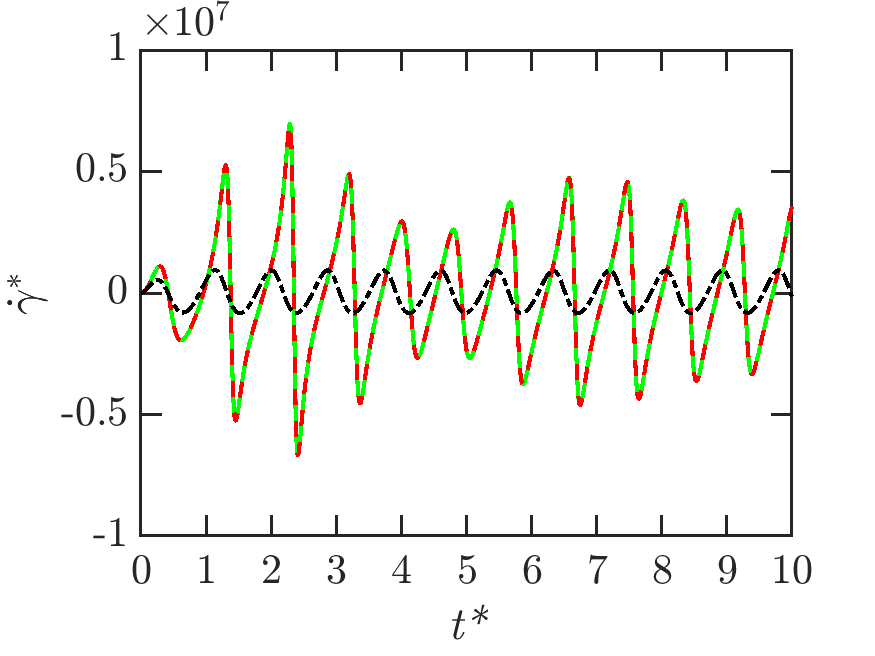
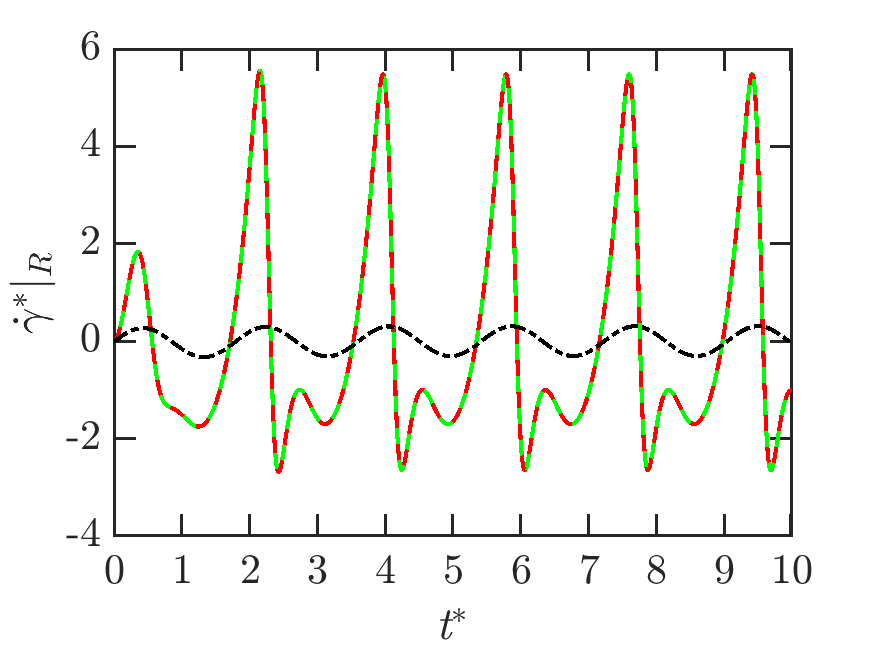
added improved plots, a few of the figures are ready for overleaf

diff --git a/figsetup.m b/figsetup.m
@@ -1,29 +1,28 @@
-tickrange= [0:tmag];
+tickrange= [0:1:tmag];
 % SETTING UP THE FIGURES
 figure(1)  
 hold on
-xlabel('\it{t*}', 'Interpreter', 'Latex', 'FontSize', 20); 
-ylabel('$\it{R^*}$-1', 'Interpreter', 'Latex', 'FontSize', 20); 
+xlabel('\it{t}$^*$', 'Interpreter', 'Latex', 'FontSize', 20); 
+ylabel('$\it{R}^*$', 'Interpreter', 'Latex', 'FontSize', 20); 
 %leg = legend('$\mu_{water}$','$\mu_{blood,\infty}$', '$\mu_{blood}$', '$\mu_{blood,0}$' ); 
 %set(leg,'Interpreter','latex','Location','northeast');
 %set(leg,'FontSize',18);
-box on;
 set(gcf,'color','w'); %Changes background to white 
 set(gca, 'FontName', 'Times', 'FontSize',20); 
 set(gca,'TickLabelInterpreter','latex')
 xa = gca;
-xticks(tickrange)
 xa.TickLength = [.03 .03];
 xa.LineWidth = 1.5;
+xticks(tickrange)
+box on;
 
 figure(2)
 hold on
-xlabel('\it{t*}', 'Interpreter', 'Latex', 'FontSize', 20); 
-ylabel('$\dot{\gamma}^*$', 'Interpreter', 'Latex', 'FontSize', 20); 
+xlabel('\it{t}$^*$', 'Interpreter', 'Latex', 'FontSize', 20); 
+ylabel('$\dot{\gamma}^*|_R$', 'Interpreter', 'Latex', 'FontSize', 20); 
 %leg = legend('$\mu_{water}$','$\mu_{blood,\infty}$', '$\mu_{blood}$', '$\mu_{blood,0}$' ); 
 %set(leg,'Interpreter','latex','Location','northeast');
 %set(leg,'FontSize',18);
-box on;
 set(gcf,'color','w'); %Changes background to white 
 set(gca, 'FontName', 'Times', 'FontSize',20); 
 set(gca,'TickLabelInterpreter','latex')
@@ -32,51 +31,52 @@ xa.TickLength = [.03 .03];
 xa.LineWidth = 1.5;
 xticks(tickrange)
 % ylim([-1.5 1.5]*1E-5)
+box on;
 
 figure(3)
 hold on
-xlabel('\it{t*}', 'Interpreter', 'Latex', 'FontSize', 20); 
-ylabel('$\mu$*', 'Interpreter', 'Latex', 'FontSize', 20); 
+xlabel('\it{t}$^*$', 'Interpreter', 'Latex', 'FontSize', 20); 
+ylabel('$\mu^*|_R$', 'Interpreter', 'Latex', 'FontSize', 20); 
 %leg = legend('$\mu_{water}$','$\mu_{blood,\infty}$', '$\mu_{blood}$', '$\mu_{blood,0}$' ); 
 %set(leg,'Interpreter','latex','Location','northeast');
 %set(leg,'FontSize',18);
-box on;
 ylim([0 1.1])
 set(gcf,'color','w'); %Changes background to white 
 set(gca, 'FontName', 'Times', 'FontSize',20); 
 set(gca,'TickLabelInterpreter','latex')
 xa = gca;
-xticks(tickrange)
 xa.TickLength = [.03 .03];
 xa.LineWidth = 1.5;
+xticks(tickrange)
+box on;
 
 figure(4)
 hold on
-xlabel('\it{t*}', 'Interpreter', 'Latex', 'FontSize', 20); 
-ylabel('$\tau_{rr}$ [Pa]', 'Interpreter', 'Latex', 'FontSize', 20); 
+xlabel('\it{t}$^*$', 'Interpreter', 'Latex', 'FontSize', 20); 
+ylabel('$\tau_{rr}^*|_R$', 'Interpreter', 'Latex', 'FontSize', 20); 
 %leg = legend('$\mu_{water}$','$\mu_{blood,\infty}$', '$\mu_{blood}$', '$\mu_{blood,0}$' ); 
 %set(leg,'Interpreter','latex','Location','northeast');
 %set(leg,'FontSize',18);
-box on;
 set(gcf,'color','w'); %Changes background to white 
 set(gca, 'FontName', 'Times', 'FontSize',20); 
 set(gca,'TickLabelInterpreter','latex')
-xticks(tickrange)
 xa = gca;
 xa.TickLength = [.03 .03];
 xa.LineWidth = 1.5;
+xticks(tickrange)
+box on;
 
 figure(5)
 hold on
-xlabel('$\dot{\gamma}$ [1/s]', 'Interpreter', 'Latex', 'FontSize', 20); 
-ylabel('$\tau_{rr}$ [Pa]', 'Interpreter', 'Latex', 'FontSize', 20); 
+xlabel('$\dot{\gamma}^*$', 'Interpreter', 'Latex', 'FontSize', 20); 
+ylabel('$\tau_{rr}^*|_R$', 'Interpreter', 'Latex', 'FontSize', 20); 
 %leg = legend('$\mu_{water}$','$\mu_{blood,\infty}$', '$\mu_{blood}$', '$\mu_{blood,0}$' ); 
 %set(leg,'Interpreter','latex','Location','northeast');
 %set(leg,'FontSize',18);
-box on;
 set(gcf,'color','w'); %Changes background to white 
 set(gca, 'FontName', 'Times', 'FontSize',20); 
 set(gca,'TickLabelInterpreter','latex')
 xa = gca;
 xa.TickLength = [.03 .03];
 xa.LineWidth = 1.5;
+box on;

diff --git a/ffield.m b/ffield.m
@@ -2,10 +2,10 @@ lR = length(Rout(:,1));
 lr = 500;
 R = Rout(:,1);
 Rdot = Rout(:,2);
-Rdist = Ro_w*ones(lR,lr).*linspace(0,8,lr);
+Rdist = Ro_w*ones(lR,lr).*linspace(0,rstarlim,lr);
 sr = sfunc(Rdist,R,Rdot,lR,lr);
 mugrid = carreau(vmaterial,sr);
-% taugrid = -2*mugrid.*sr;
+taugrid = -2*mugrid.*sr;
 tcon = Tout(1:lR)/tRC;
 rcon = Rdist(1,1:lr)'/Ro_w;
 [xcon,ycon] = meshgrid(tcon,rcon);
@@ -18,37 +18,63 @@ cbar = colorbar;
 cbar.Label.String = '$\mu$*';
 set(cbar,'TickLabelInterpreter','latex');
 pos = get(cbar,'Position');
-cbar.Label.Position = [pos(1)*2 pos(2)*(-0.3)]; 
+cbar.Label.Position = [pos(1)*2 -0.066045549576697]; 
 cbar.Label.Rotation = 0;
 cbar.Label.Interpreter = 'latex';
 caxis([0 1]);
-xlabel('\it{t*}', 'Interpreter', 'Latex', 'FontSize', 20); 
-ylabel('\it{r*}','Interpreter','Latex','FontSize',24);
+xlabel('\it{t}$^*$', 'Interpreter', 'Latex', 'FontSize', 20); 
+ylabel('\it{r}$^*$','Interpreter','Latex','FontSize',24);
 set(gcf,'color','w');
 set(gca,'FontName','Times','FontSize',20);
 set(gca,'TickLabelInterpreter','latex')
 xa = gca;
 xa.TickLength = [.03 .03];
 xa.LineWidth = 1.5;
+xticks([1:1:tmag])
 box on;
 
-% figure(7)
-% contourf(xcon',ycon',taugrid,clevels,'edgecolor','none')
-% colormap jet;
-% cbar = colorbar;
-% cbar.Label.String = '$\tau_{rr}$ [Pa]';
-% set(cbar,'TickLabelInterpreter','latex');
-% pos = get(cbar,'Position');
-% cbar.Label.Position = [pos(1)*2 pos(2)*(-3)]; 
-% cbar.Label.Rotation = 0;
-% cbar.Label.Interpreter = 'latex';
-% % caxis([0 1])
-% xlabel('\it{t*}', 'Interpreter', 'Latex', 'FontSize', 20); 
-% ylabel('\it{r*}','Interpreter','Latex','FontSize',24);
-% set(gcf,'color','w');
-% set(gca,'FontName','Times','FontSize',20);
-% set(gca,'TickLabelInterpreter','latex')
-% xa = gca;
-% xa.TickLength = [.03 .03];
-% xa.LineWidth = 1.5;
-% box on;
+figure(7)
+% plot(tspan,Roft, lm,'LineWidth',2); 
+contourf(xcon',ycon',sr,clevels,'edgecolor','none')
+colormap jet;
+cbar = colorbar;
+set(cbar,'TickLabelInterpreter','latex');
+cbar.Label.String = '$\dot{\gamma}~[1/s]$';
+pos = get(cbar,'Position');
+cbar.Label.Position = [1.661309480667114 -10.730386636465376]; 
+cbar.Label.Rotation = 0;
+cbar.Label.Interpreter = 'latex';
+caxis([-10 10]);
+xlabel('\it{t}$^*$', 'Interpreter', 'Latex', 'FontSize', 20); 
+ylabel('\it{r}$^*$','Interpreter','Latex','FontSize',24);
+set(gcf,'color','w');
+set(gca,'FontName','Times','FontSize',20);
+set(gca,'TickLabelInterpreter','latex')
+xa = gca;
+xa.TickLength = [.03 .03];
+xa.LineWidth = 1.5;
+xticks([1:1:tmag])
+box on;
+
+figure(8)
+% plot(tspan,Roft, lm,'LineWidth',2); 
+contourf(xcon',ycon',taugrid,clevels,'edgecolor','none')
+colormap jet;
+cbar = colorbar;
+cbar.Label.String = '$\tau_{rr}$ [Pa]';
+set(cbar,'TickLabelInterpreter','latex');
+pos = get(cbar,'Position');
+cbar.Label.Position = [1.9735118831907 -0.22]; 
+cbar.Label.Rotation = 0;
+cbar.Label.Interpreter = 'latex';
+caxis([-0.2 0.2]);
+xlabel('\it{t}$^*$', 'Interpreter', 'Latex', 'FontSize', 20); 
+ylabel('\it{r}$^*$','Interpreter','Latex','FontSize',24);
+set(gcf,'color','w');
+set(gca,'FontName','Times','FontSize',20);
+set(gca,'TickLabelInterpreter','latex')
+xa = gca;
+xa.TickLength = [.03 .03];
+xa.LineWidth = 1.5;
+xticks([1:1:tmag])
+box on;

diff --git a/bubblewall_solver.m b/bubblewall_solver.m
@@ -3,10 +3,9 @@ function [Tout,Rout,Rddot] = bubblewall_solver(R_eqd,deltap,kappa,f,...
 % FUNCTION THAT SOLVED KELLER MIKSIS FOR MULTIPLE CASES
 % LETTY: YOUR CODE IS A BIT BETTER AT MANAGING VARIABLES, USE YOUR CODE AND
 % USE THIS CODE AS  REFERENCE ON HOW TO SIMPLIFY AND DEBUG YOUR CODE
-    Ro_eq=R_eqd;                %Bubble Initial Radius
-    tf=tfinal;                  %Final time
+    Ro_eq=R_eqd;                % Bubble Initial Radius
+    tf=tfinal;                  % Final time
     c2=c^2;                     % speed of sound squared
-    k=kappa;                        % gas parameter, using air value
     S =(rho*c2*R_eqd)/We;       % Weber #
     eta=(rho*c^2)/Ca;           % eta, SEE JFM PAPER
     pGo=po-pv+(2*S)/R_eqd;      % pressure inside the bubble
@@ -16,15 +15,15 @@ function [Tout,Rout,Rddot] = bubblewall_solver(R_eqd,deltap,kappa,f,...
     elseif strcmp('KM',rmodel) == 1
         xi = 1/c;
     end
-    r_dt=0;%(pv-po)/(rho*c);       % ICs: initial velocity
-    r_initial=[Ro_eq r_dt];     % ICs: initial radius 
-    t_span=[0 tf];              % TIME
-    options = odeset('MaxStep', tfinal/1E3,'AbsTol',1E-9);
+    r_dt      = 0;%(pv-po)/(rho*c);       % ICs: initial velocity
+    r_initial = [Ro_eq r_dt];        % ICs: initial radius 
+    t_span    = [0 tf];                 % time
+    options   = odeset('MaxStep', tfinal/1E3,'AbsTol',1E-9);
     % Solving the System of ODEs
-    [Tout,Rout]=ode23tb(@(t,r) bubblewall(t,r,eta,k,xi,rho,Ro_eq,...
+    [Tout,Rout] = ode23tb(@(t,r) bubblewall(t,r,eta,kappa,xi,rho,Ro_eq,...
             S,deltap,f,po,pv,pGo,force,emodel,vmodel,vmaterial),...
             t_span,r_initial,options);
-    [Rddot] = bubblewall_Rddot(Tout,Rout,eta,k,xi,rho,Ro_eq,...
+    [Rddot]     = bubblewall_Rddot(Tout,Rout,eta,kappa,xi,rho,Ro_eq,...
         S,deltap,f,po,pv,pGo,force,emodel,vmodel,vmaterial);
 end
  
@@ -37,11 +36,10 @@ function [ dR_dt ] = bubblewall(t,r,eta,k,xi,rho,Req,S,deltap,f,...
     dR_dt=[ r(2); dRdT2 ];
 end
  
-function [ dRdT2 ] = bubblewall_Rddot(t,r,eta,k,xi,rho,Req,S,deltap,f,...
+function [ dRdT2 ] = bubblewall_Rddot(t,r,eta,k,xi,rho,Ro,S,deltap,f,...
     po,pv,pGo,force,emodel,vmodel,vmaterial)
 % KELLER MIKSIS EQUATION NON-LINEAR ODE SOLVER
 %
-    Ro=Req;
     if size(r,2) > 1
         r2 = r(:,2);
         r1 = r(:,1);
@@ -106,18 +104,17 @@ end
 
 function S = vis(Rdot,R)
 	mu_inf = 0.00345; 
-	mu_o = 0.056; 
-    lambda = 5.607570991983291;
-    nc = 0.383559338674208;
     S = [];
     for i = 1:length(R)
         S(i) = 4*mu_inf*Rdot(i)./R(i)+...
-            integral(@(r) carreautau(r,Rdot(i),R(i),lambda,...
-            nc,mu_o,mu_inf),R(i),Inf);
+            integral(@(r) carreautau(r,Rdot(i),R(i),mu_inf),R(i),Inf);
     end
 end
 
-function tau = carreautau(r,Rdot,R,lambda,nc,mu_o,mu_inf)
+function tau = carreautau(r,Rdot,R,mu_inf)
+	mu_o = 0.056; 
+    lambda = 5.607570991983291;
+    nc = 0.383559338674208;
     tau = (12*(Rdot.*R.^2)./r.^4).*(mu_o-mu_inf).*(1+...
         lambda.^2.*(4.*Rdot.^2.*R.^4./r.^6)).^((nc-1)/2);
 end

diff --git a/bubblewall_main.m b/bubblewall_main.m
@@ -1,23 +1,25 @@
 clear; close all; clc;
 %INPUT PARAMETERS
-Ro_w=8E-6;                              % initial bubble radius = 1E-6  
-Sd=0.072;                               % surface tension                
-po=101325;                              % atmospheric pressure = 101325
-pv=2300;                                % pressure of vapor          
-rho=1000;                               % density of liquid = 1000      
-c=1500;                                 % speed of sound 
-kappa = 1.4;                          % ratio of specific heats
-omegan = (1/(2*pi*Ro_w))*sqrt((3*kappa*(po-pv)+(3*kappa-1)*(2*Sd)/Ro_w)/rho);
-tRC = 1/omegan;                         % natural period
-tmag = 10;
-tfinal=tmag*tRC;                          % final time of simulation
-deltap = 5E4;                         % amplitude of wave
-f = 5E5;%1/tRC;                              % driving frequecy
-shearmodulus = 0;                       % shear modulus of the surounding material
-mu_water = 8.9*10E-4;                   % viscosity of water
-Ca = (rho*c*c)/shearmodulus;            % shear modulus of soft material 
-We_w = (rho*c*c*Ro_w)/Sd;
-mu_o = 0.056;
+Ro_w = 0.5E-6;                      % initial bubble radius = 1E-6  
+Sd  = 0.072;                       % surface tension                
+po  = 1E5;                      % atmospheric pressure = 101325
+pv  = 2300;                        % pressure of vapor          
+rho = 1000;                       % density of liquid = 1000      
+c   = 1500;                         % speed of sound 
+kappa = 1.4;                    % ratio of specific heats
+fnatural = (1/(2*pi*Ro_w))*sqrt((3*kappa*(po-pv)+...
+    (3*kappa-1)*(2*Sd)/Ro_w)/rho);
+tRC = 1/fnatural;                 % natural period
+tmag = 10.0001;
+tfinal=tmag*tRC;                % final time of simulation
+deltap = 0.2E6;                   % amplitude of wave
+f = 6.4E6;%1/tRC;                 % driving frequecy
+shearmodulus = 0;               % shear modulus of the surounding material
+mu_water = 8.9*10E-4;           % viscosity of water
+Ca = (rho*c*c)/shearmodulus;    % shear modulus of soft material 
+We_w = (rho*c*c*Ro_w)/Sd;       % Weber number, surface tension
+mu_o = 0.056;                   % blood no shear viscosity
+stress = po;
 
 %SETTING UP FIGURES
 figsetup;
@@ -41,6 +43,7 @@ vmaterial = 'lsq_blood';
     c,tfinal,force,rmodel,emodel,vmodel,vmaterial);
 lm = 'r--';
 figplot;
+rstarlim = 500;
 ffield;
 
 %blood 0
@@ -61,7 +64,9 @@ figure(4)
 saveas(gcf,'ftauofT','png')
 figure(5)
 saveas(gcf,'ftauofgamma','png')
-% figure(6)
-% saveas(gcf,'fmuofr','png')
-% figure(7)
-% saveas(gcf,'ftauofr','png')
+figure(6)
+saveas(gcf,'fmuofr','png')
+figure(7)
+saveas(gcf,'fshearofr','png')
+figure(8)
+saveas(gcf,'ftauofr','png')

diff --git a/figplot.m b/figplot.m
@@ -1,11 +1,11 @@
 figure(1)
-tspan = Tout*omegan;
-Roft = (Rout(:,1)/Ro_w)-1;
+tspan = Tout*fnatural;
+Roft = (Rout(:,1)/Ro_w);
 plot(tspan,Roft, lm,'LineWidth',2); 
 
 figure(2)
 gamma = -4*(Rout(:,2))./(Rout(:,1));
-gamman = gamma;
+gamman = gamma/fnatural;
 plot(tspan,gamman,lm,'LineWidth',2); 
 
 figure(3)
@@ -14,12 +14,12 @@ plot(tspan,mutrace/mu_o,lm,'LineWidth',2);
 
 figure(4)
 tautrace = mutrace.*gamma;
-plot(tspan,tautrace,lm,'LineWidth',2); 
+plot(tspan,tautrace/stress,lm,'LineWidth',2); 
 
 figure(5)
 tautrace = mutrace.*gamma;
 taug = abs([gamma tautrace])';
 taug = sortrows(taug');
-gt = taug(:,1);
-taut = taug(:,2);
+gt = taug(:,1)/fnatural;
+taut = taug(:,2)/stress;
 plot(gt,taut,lm,'LineWidth',2); 

diff --git a/sfunc.m b/sfunc.m
@@ -7,6 +7,9 @@ sofr = zeros(N,M);
             else
                 sofr(i,j) = NaN;
             end
+            if abs(sofr(i,j)) > 10
+                sofr(i,j) = NaN;
+            end
         end
     end
 end

diff --git a/pfunc.m b/pfunc.m
@@ -1,5 +1,6 @@
 function pofr = pfunc(r,R,U,Udot,pA,rho8,N,M)
 pofr = zeros(N,M);
+% equation 4.11 in Eric Johnsen thesis
     for i = 1:N
         for j = 1:M
             if r(i,j) >  R(i,1)
